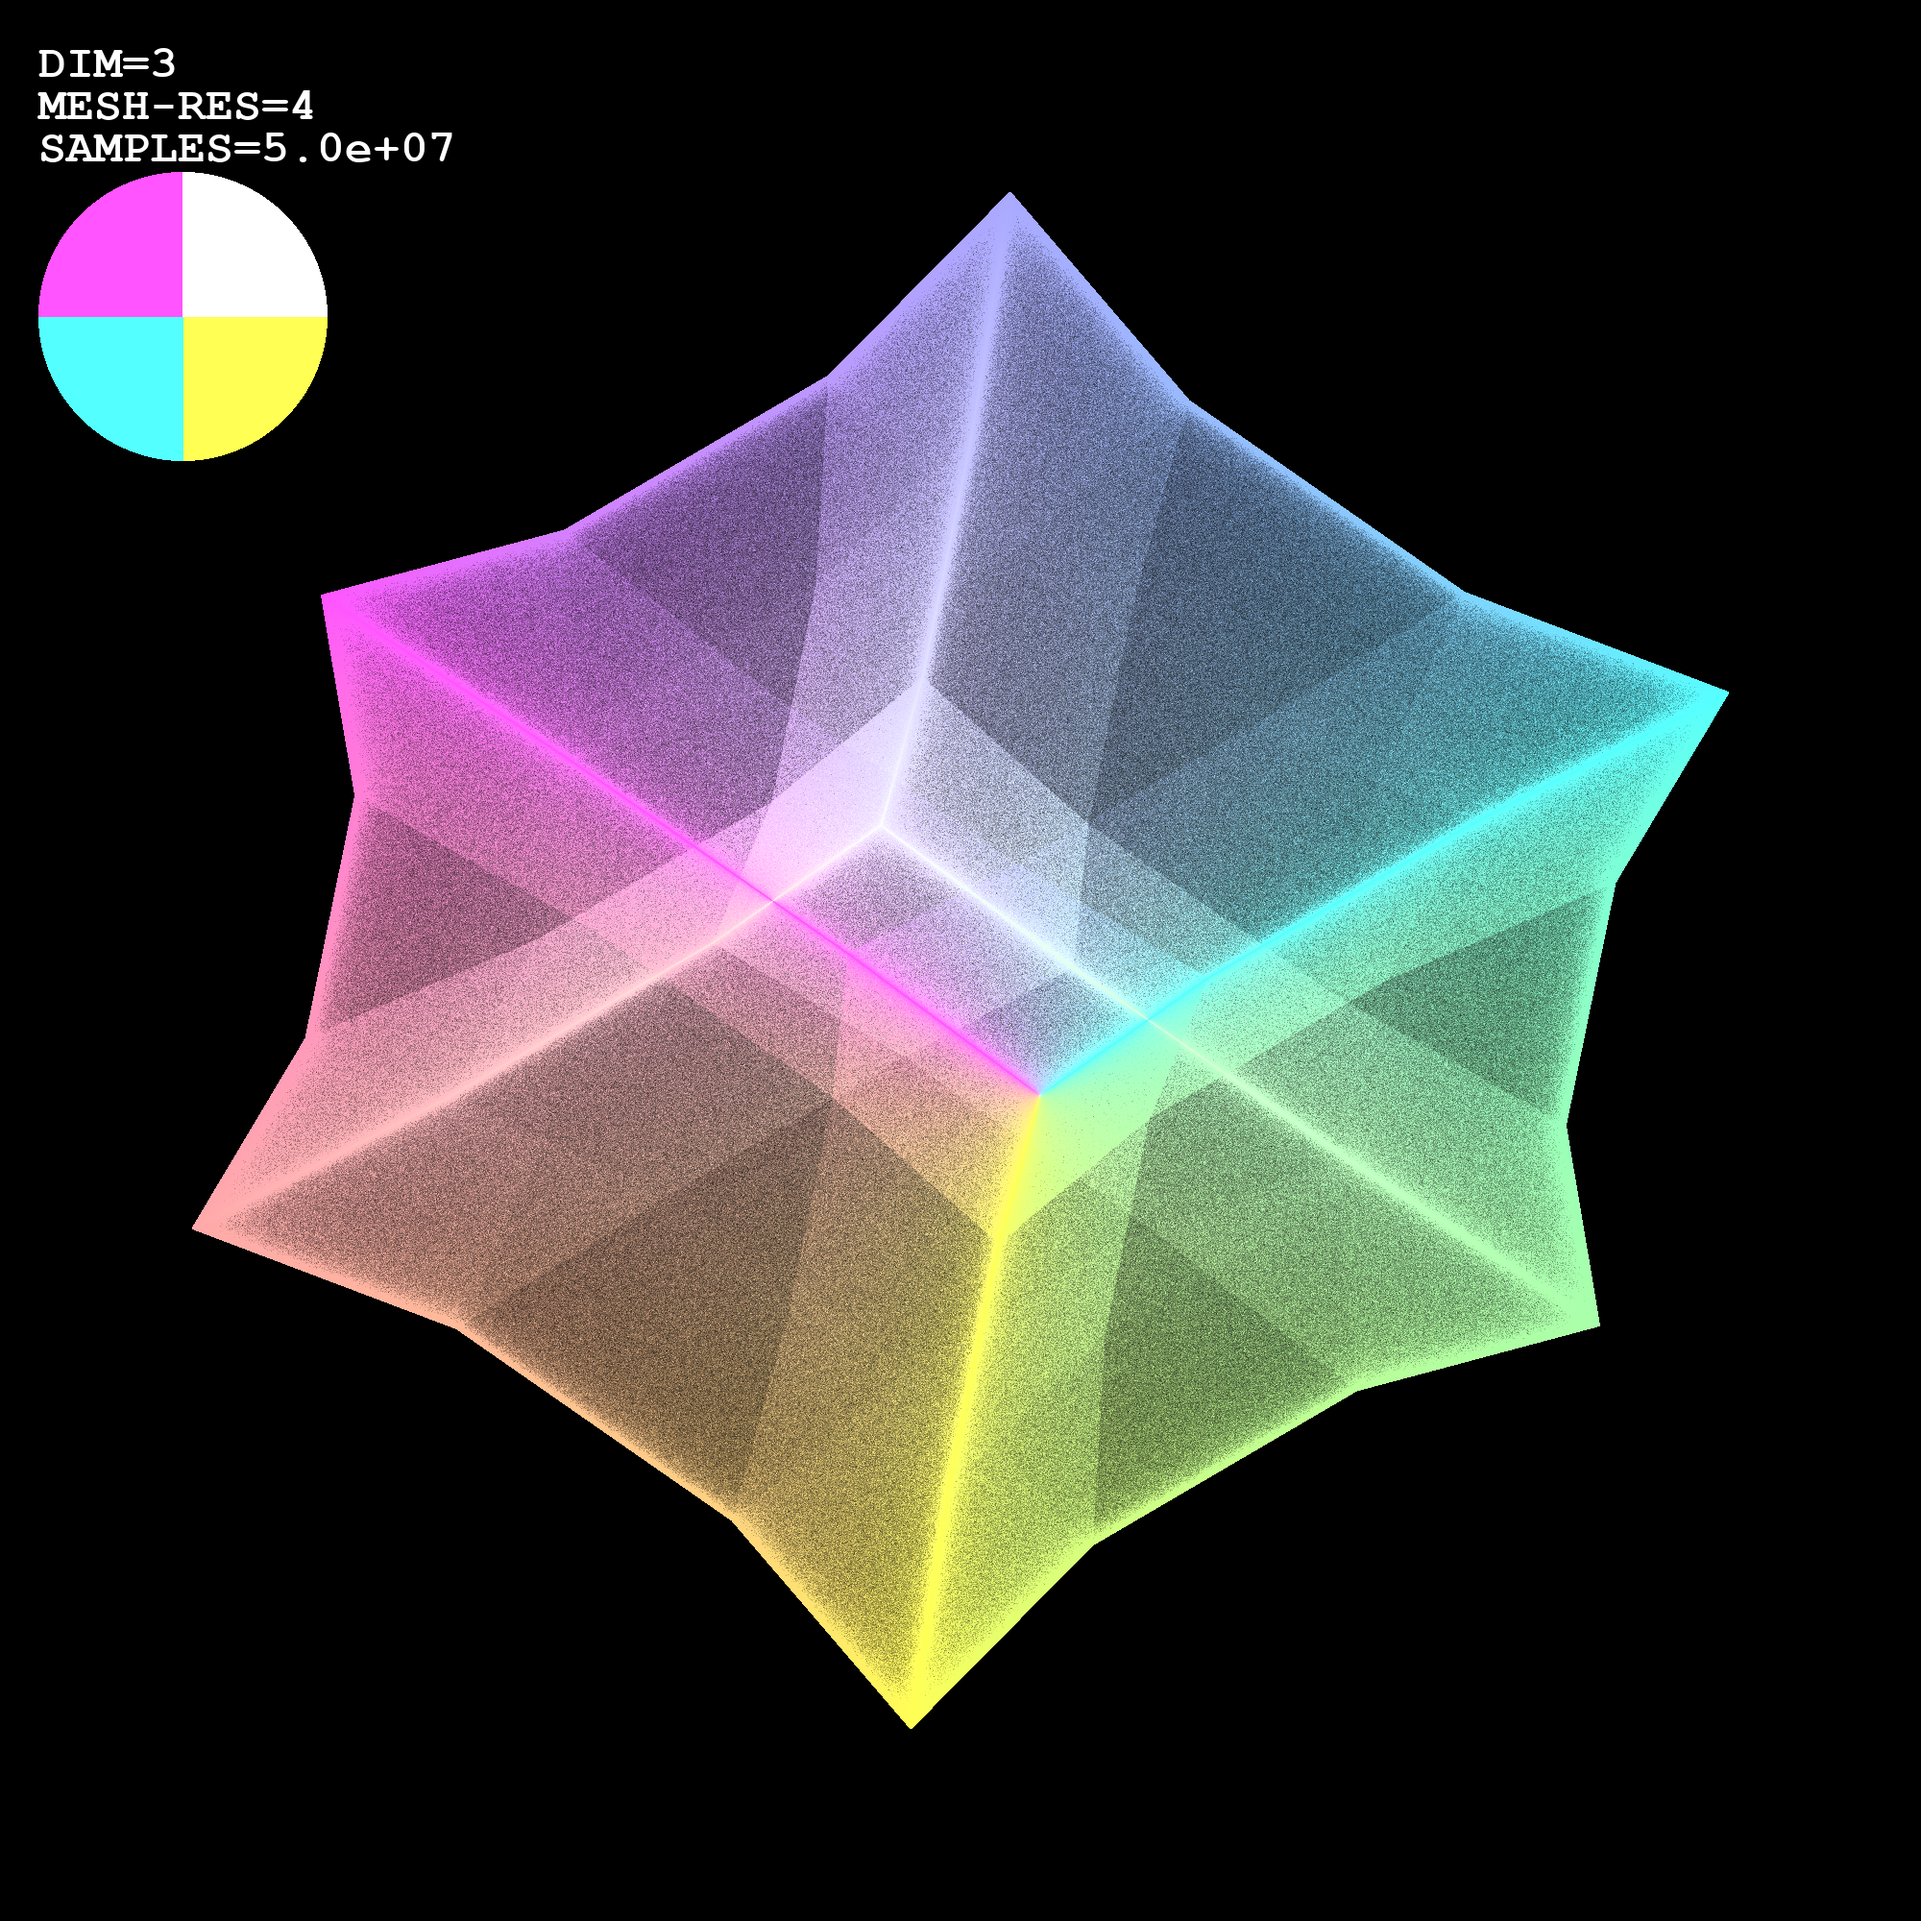
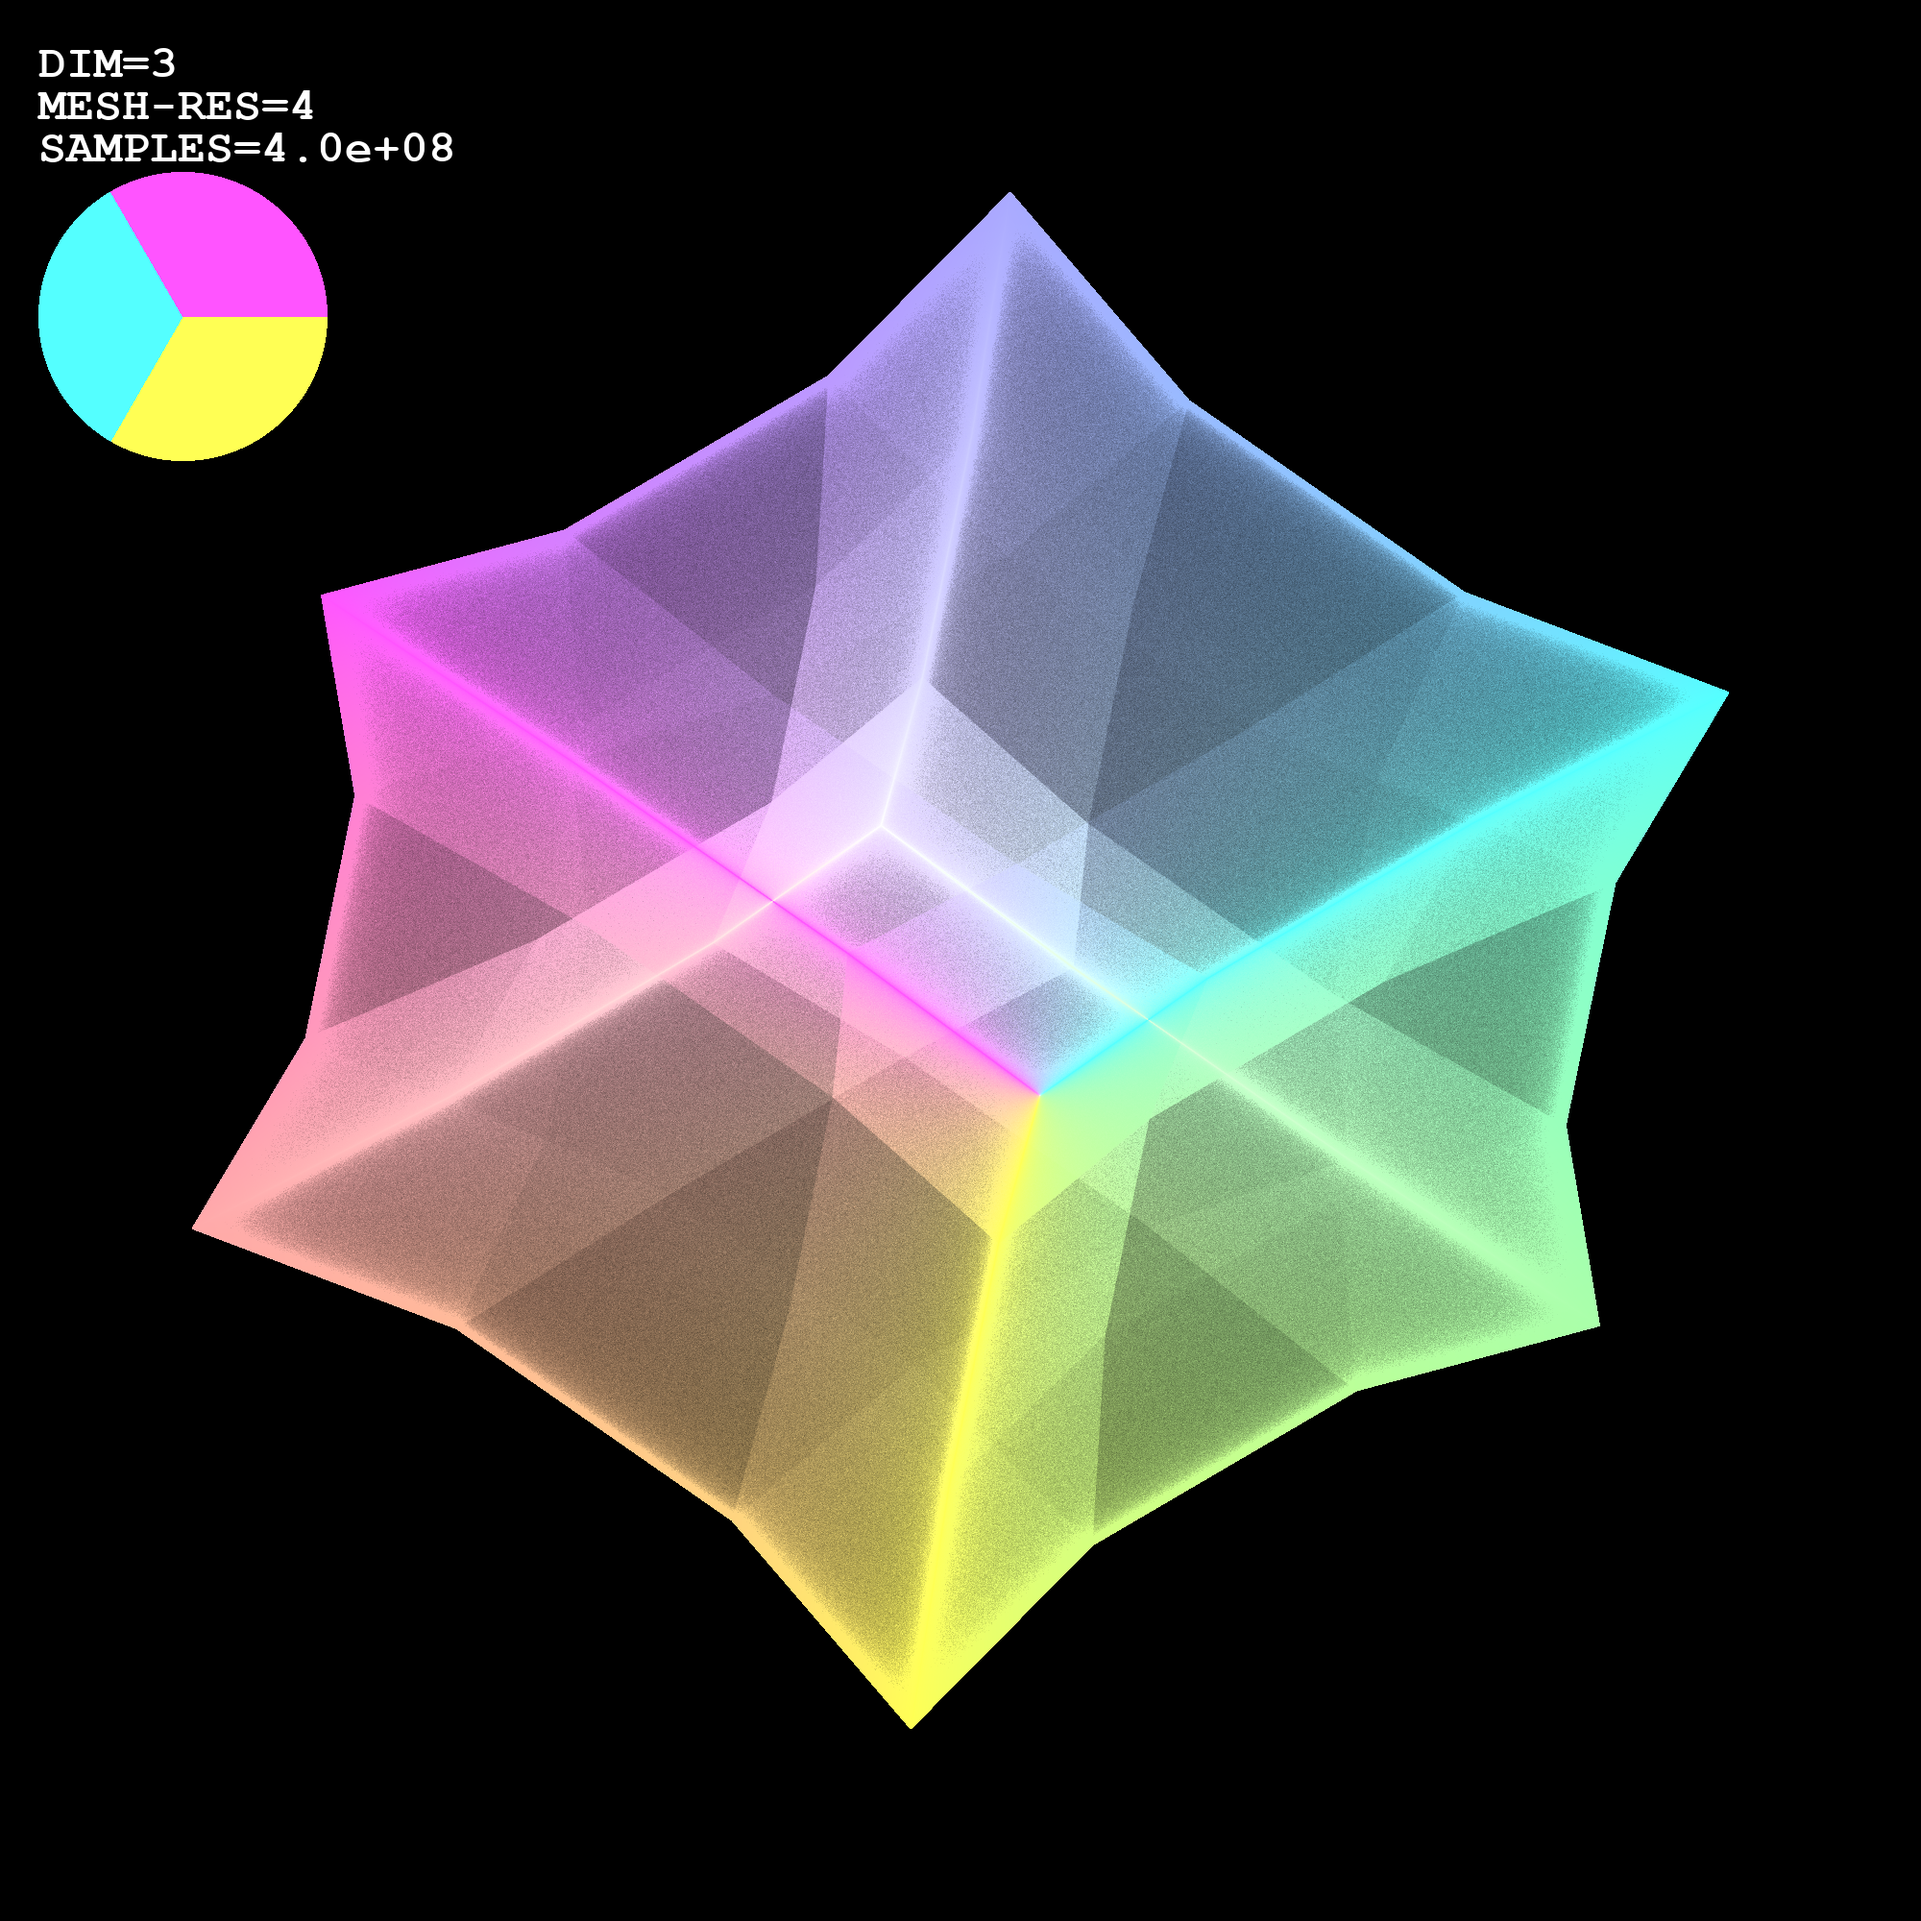
Add README.md, 6D renders, and diagram fixes

Changed region(s): [[0.124, 0.124, 0.868, 0.868], [0.0, 0.062, 0.186, 0.248], [0.217, 0.062, 0.248, 0.093]]

diff --git a/main.py b/main.py
@@ -5,41 +5,6 @@ from renderer import Renderer
 from spaceProjector import InterpolatedSpaceProjector, ManifoldSpaceProjector
 import spaceSampler
 
-CONFIGS = [
-    RenderConfig(
-        n_dim=3,
-        resolution=12,
-        hollow_fit=False,
-        method="isomap",
-        total_samples=50_000_000,
-        save_path="renders/test_3d",
-    ),
-    RenderConfig(
-        n_dim=4,
-        resolution=9,
-        hollow_fit=True,
-        method="isomap",
-        total_samples=50_000_000,
-        save_path="renders/test_4d_9rez",
-    ),
-    RenderConfig(
-        n_dim=4,
-        resolution=10,
-        hollow_fit=True,
-        method="isomap",
-        total_samples=50_000_000,
-        save_path="renders/test_4d_10rez",
-    ),
-    RenderConfig(
-        n_dim=5,
-        resolution=6,
-        hollow_fit=True,
-        method="isomap",
-        total_samples=50_000_000,
-        save_path="renders/test_5d",
-    ),
-]
-
 
 def make_configs():
     configs = []
@@ -50,7 +15,7 @@ def make_configs():
             resolution=rez,
             hollow_fit=False,
             method="isomap",
-            total_samples=50_000_000,
+            total_samples=400_000_000,
             save_path=f"renders/3D_{rez:02d}rez",
         )
         configs.append(c)
@@ -61,7 +26,7 @@ def make_configs():
             resolution=rez,
             hollow_fit=True,
             method="isomap",
-            total_samples=50_000_000,
+            total_samples=400_000_000,
             save_path=f"renders/4D_{rez:02d}rez",
         )
         configs.append(c)
@@ -72,11 +37,21 @@ def make_configs():
             resolution=rez,
             hollow_fit=True,
             method="isomap",
-            total_samples=50_000_000,
+            total_samples=400_000_000,
             save_path=f"renders/5D_{rez:02d}rez",
         )
         configs.append(c)
 
+    for rez in range(3, 9):
+        c = RenderConfig(
+            n_dim=6,
+            resolution=rez,
+            hollow_fit=True,
+            method="isomap",
+            total_samples=400_000_000,
+            save_path=f"renders/6D_{rez:02d}rez",
+        )
+        configs.append(c)
     return configs
 
 

diff --git a/renderPipeline.py b/renderPipeline.py
@@ -64,6 +64,8 @@ class RenderPipeline(object):
         self.render_options = render_config
 
     def __call__(self, show_plt):
+
+        print("Starting pipeline:", self.render_options)
         tc = time.time()
 
         opts = self.render_options
@@ -107,7 +109,7 @@ class RenderPipeline(object):
             f"DIM={n_dim}\nMESH-RES={resolution}\nSAMPLES={opts.total_samples:.1e}"
         )
         img_uint8 = add_overlay_top_left(
-            img_uint8, image_text, n_dim + 1, color_projector.colors
+            img_uint8, image_text, n_dim, color_projector.colors[:-1]
         )
         img_path = opts.save_path + "_render.png"
 

diff --git a/renderOptions.py b/renderOptions.py
@@ -8,7 +8,7 @@ class RenderConfig(object):
         save_path,
         method="isomap",
         sampler_config=None,
-        batch_size=5000,
+        batch_size=50000,
         image_resolution=2000,
     ):
         self.n_dim = n_dim

diff --git a/README.md b/README.md
@@ -1,24 +1,118 @@
-![Alt text](renders/3D_03rez_render.png) 
-![Alt text](renders/3D_04rez_render.png)
-![Alt text](renders/3D_05rez_render.png)
-![Alt text](renders/3D_06rez_render.png)
-![Alt text](renders/3D_07rez_render.png)
-![Alt text](renders/3D_08rez_render.png)
-![Alt text](renders/3D_09rez_render.png)
-![Alt text](renders/3D_10rez_render.png)
-![Alt text](renders/3D_11rez_render.png)
-![Alt text](renders/3D_12rez_render.png)
-![Alt text](renders/3D_13rez_render.png)
-![Alt text](renders/3D_14rez_render.png)
-![Alt text](renders/4D_03rez_render.png)
-![Alt text](renders/4D_04rez_render.png)
-![Alt text](renders/4D_05rez_render.png)
-![Alt text](renders/4D_06rez_render.png)
-![Alt text](renders/4D_07rez_render.png)
-![Alt text](renders/4D_08rez_render.png)
-![Alt text](renders/4D_09rez_render.png)
-![Alt text](renders/5D_03rez_render.png)
-![Alt text](renders/5D_04rez_render.png)
-![Alt text](renders/5D_05rez_render.png)
-![Alt text](renders/5D_06rez_render.png)
-![Alt text](renders/5D_07rez_render.png) 
+## Hypercube embeddings
+
+Cubes of various dimensions embedded into 2D space using the [Isomap](https://en.wikipedia.org/wiki/Isomap) algorithm.
+
+### Inspiration:
+
+I recently got 4 paint pigments come in the mail, all unique colors. The solitary colors are a bit ugly, but I bet there is some combination of the pigments that would look great. If I only had 2 pigment colors, I could just paint a gradient as a line, going from 100% pigment A to 100% pigment B. For 3 colors, all combinations could be represented as a [ternary plot](https://en.wikipedia.org/wiki/Ternary_plot).
+
+Realistically, a "tetrahedron plot" could represent all 4 color pigment combinations in 3d space. I got sidetracked and decided to look into cube representations instead. I chose to try and represent all pigment combinations as a N-dimensional hypercube embedded into 2D space using the Isomap algorithm and other similar nonlinear dimensionality reduction methods. So I implemented it!
+
+### What's the rendering algorithm?
+ 1. I create a meshgrid of the N-dimensional cube. If the meshgrid has resolution `R`, there will be `R**N` total points.
+ 1. I apply the Isomap algorithm to that meshgrid, recieving an embedding function into 2D space.
+ 1. At this point, the embedding is rough and has artifacting. Also it's incredibly slow.
+ 2. Therefor, I the `scikit` function `RegularGridInterpolator` to interpolate outputs from that initial meshgrid embedding.
+ 3. Finally, I generate N unique colors, assigning one to each dimension.
+ 4. I randomly sample points in the N-dimensional cube.
+    1. The distribution is biased towards edges to give more definition to the cube.
+    2. The point is assigned a color: the linear combination of the N dimensional colors based off it's location
+    3. The point is assigned a 2D coordinate based of the Isomap embedding
+ 5. After enough samples, the noise becomes an image!
+
+
+### Cool takeaways:
+ - The amount of edges connected to each vertex is equal to the dimension.
+   - A square has two edges connected to vertex.
+   - A cube has two edges connected to vertex
+ - This tool is not really great for my original usecase of finding a good pigment mixture.
+ - Sometimes function interpolations are great for speeding up compute without loosing fidelity.
+
+
+<!-- ======================= -->
+<!-- 3D RENDERS -->
+<!-- ======================= -->
+<h2>3D cubes</h2>
+
+### Simply a regular ol' 3D cube embedded into 2D space.
+<!-- Always-visible previews (first 3) -->
+<div style="display:flex; flex-wrap:wrap; gap:8px;">
+  <img src="renders/3D_07rez_render.png" width="300"/>
+  <img src="renders/3D_11rez_render.png" width="300"/>
+  <img src="renders/3D_13rez_render.png" width="300"/>
+</div>
+
+<!-- Foldable remainder -->
+<details>
+  <summary><strong>More 3D renders</strong></summary>
+  <div style="display:flex; flex-wrap:wrap; gap:8px; margin-top:8px;">
+    <img src="renders/3D_03rez_render.png" width="300"/>
+    <img src="renders/3D_04rez_render.png" width="300"/>
+    <img src="renders/3D_05rez_render.png" width="300"/>
+    <img src="renders/3D_06rez_render.png" width="300"/>
+    <img src="renders/3D_08rez_render.png" width="300"/>
+    <img src="renders/3D_09rez_render.png" width="300"/>
+    <img src="renders/3D_10rez_render.png" width="300"/>
+    <img src="renders/3D_12rez_render.png" width="300"/>
+    <img src="renders/3D_14rez_render.png" width="300"/>
+  </div>
+</details>
+
+
+<!-- ======================= -->
+<!-- 4D RENDERS -->
+<!-- ======================= -->
+<h2>4D cubes</h2>
+
+### A 4D hypercube embedded into 2D space - it's essentially a pair of 3D cubes glued together, just as a cube is two squares glued together.
+
+<!-- Always-visible previews (first 3) -->
+<div style="display:flex; flex-wrap:wrap; gap:8px;">
+  <img src="renders/4D_05rez_render.png" width="300"/>
+  <img src="renders/4D_06rez_render.png" width="300"/>
+  <img src="renders/4D_09rez_render.png" width="300"/>
+</div>
+
+<!-- Foldable remainder -->
+<details>
+  <summary><strong>More 4D renders</strong></summary>
+  <div style="display:flex; flex-wrap:wrap; gap:8px; margin-top:8px;">
+    <img src="renders/4D_03rez_render.png" width="300"/>
+    <img src="renders/4D_04rez_render.png" width="300"/>
+    <img src="renders/4D_07rez_render.png" width="300"/>
+    <img src="renders/4D_08rez_render.png" width="300"/>
+  </div>
+</details>
+
+
+<!-- ======================= -->
+<!-- 5D RENDERS -->
+<!-- ======================= -->
+<h2>5D cubes</h2>
+
+### A 5-dimensional cube embedded into 2D space. Notice each vertex has 5 edges connected.
+<!-- Always-visible previews (first 3) -->
+<div style="display:flex; flex-wrap:wrap; gap:8px;">
+  <img src="renders/5D_03rez_render.png" width="300"/>
+  <img src="renders/5D_05rez_render.png" width="300"/>
+  <img src="renders/5D_06rez_render.png" width="300"/>
+</div>
+
+<!-- Foldable remainder -->
+<details>
+  <summary><strong>More 5D renders</strong></summary>
+  <div style="display:flex; flex-wrap:wrap; gap:8px; margin-top:8px;">
+    <img src="renders/5D_04rez_render.png" width="300"/>
+    <img src="renders/5D_07rez_render.png" width="300"/>
+  </div>
+</details>
+
+<h2>6D cubes</h2>
+
+### 6D cubes are essentially incoherent to us humans
+<!-- Always-visible previews (first 3) -->
+<div style="display:flex; flex-wrap:wrap; gap:8px;">
+  <img src="renders/6D_03rez_render.png" width="300"/>
+  <img src="renders/6D_04rez_render.png" width="300"/>
+  <img src="renders/6D_05rez_render.png" width="300"/>
+</div>
